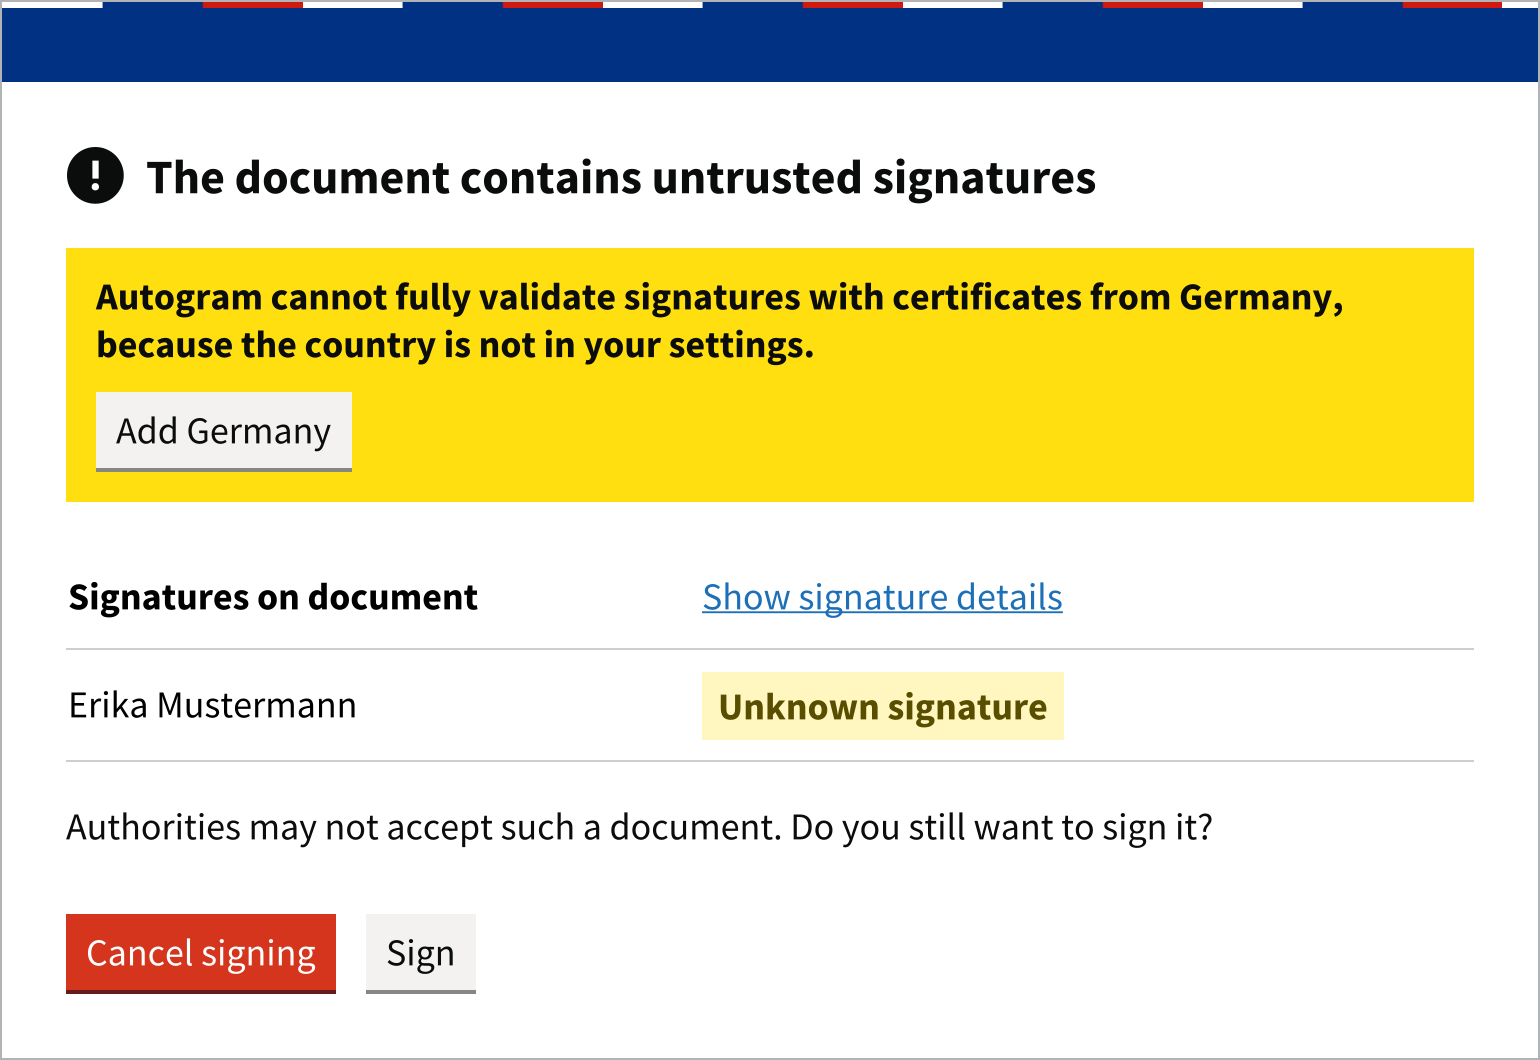
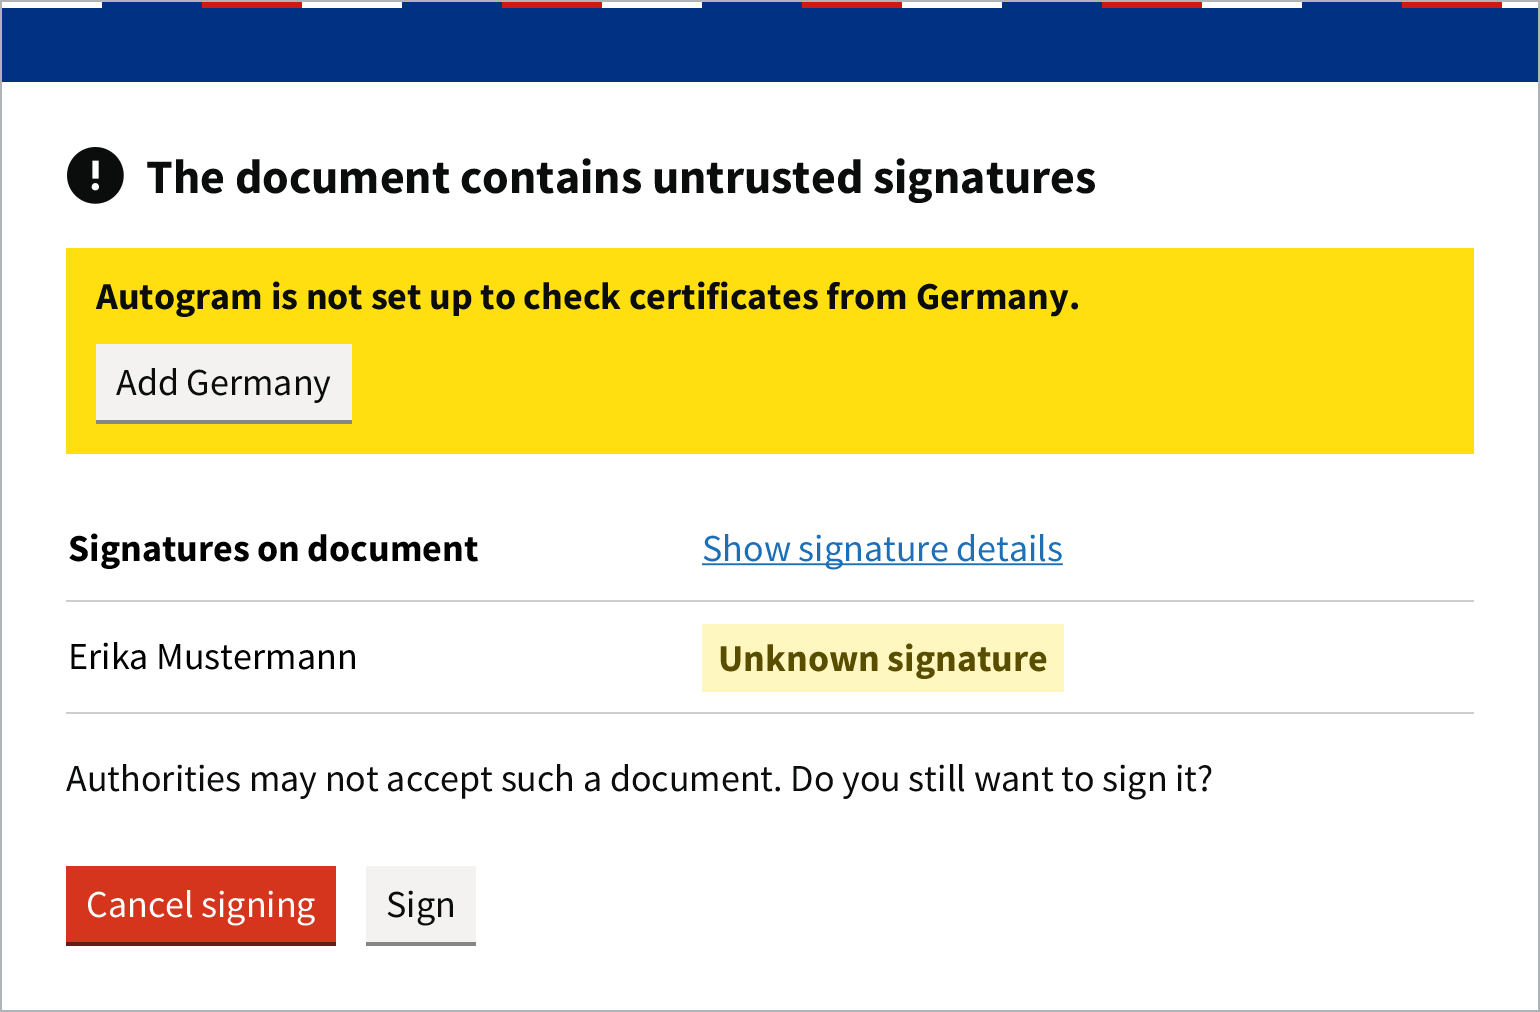
say that Autogram is not set up to check certificates from the countries

diff --git a/src/test/java/digital/slovensko/autogram/ui/gui/TrustedListsWarningTest.java b/src/test/java/digital/slovensko/autogram/ui/gui/TrustedListsWarningTest.java
@@ -97,13 +97,13 @@ class TrustedListsWarningTest {
     void countriesTurnedOffAreNamed() {
         var belgium = Country.withTrustedList("BE").orElseThrow();
         var czechia = Country.withTrustedList("CZ").orElseThrow();
-        assertEquals("Autogram nevie úplne overiť podpisy s certifikátmi z krajiny Belgicko, lebo túto krajinu nemáte pridanú v nastaveniach.",
+        assertEquals("Autogram nemá nastavené overovanie certifikátov z krajiny Belgicko.",
                 GUIValidationUtils.countriesTurnedOffWarning(SK, List.of(belgium)));
-        assertEquals("Autogram nevie úplne overiť podpisy s certifikátmi z krajín Belgicko, Česko, lebo tieto krajiny nemáte pridané v nastaveniach.",
+        assertEquals("Autogram nemá nastavené overovanie certifikátov z krajín Belgicko, Česko.",
                 GUIValidationUtils.countriesTurnedOffWarning(SK, List.of(belgium, czechia)));
-        assertEquals("Autogram cannot fully validate signatures with certificates from Belgium, because the country is not in your settings.",
+        assertEquals("Autogram is not set up to check certificates from Belgium.",
                 GUIValidationUtils.countriesTurnedOffWarning(EN, List.of(belgium)));
-        assertEquals("Autogram cannot fully validate signatures with certificates from Belgium, Czechia, because the countries are not in your settings.",
+        assertEquals("Autogram is not set up to check certificates from Belgium, Czechia.",
                 GUIValidationUtils.countriesTurnedOffWarning(EN, List.of(belgium, czechia)));
     }
 

diff --git a/docs/docs/sk/troubleshooting.md b/docs/docs/sk/troubleshooting.md
@@ -78,7 +78,7 @@ Autogram predvolene podpisuje iba XML formuláre slovenskej verejnej správy. In
 
 ### Podpisy sa nedajú overiť
 
-Ak Autogram hlási chybu pri sťahovaní dôveryhodných zoznamov, nemá prístup na internet alebo je server s dôveryhodnými zoznamami nedostupný. Skontrolujte pripojenie a dokument otvorte znova. Ak hlási, že sa nepodarilo stiahnuť iba niektoré zoznamy, je nedostupný server niektorej krajiny alebo je pripojenie na internet veľmi pomalé. Skúste to neskôr. Ak Autogram hlási, že krajinu nemáte pridanú v nastaveniach, kliknite na tlačidlo v upozornení, napríklad **Pridať krajinu Nemecko**. Viac je na stránke [Overenie podpisov](verification.md#doveryhodne-zoznamy).
+Ak Autogram hlási chybu pri sťahovaní dôveryhodných zoznamov, nemá prístup na internet alebo je server s dôveryhodnými zoznamami nedostupný. Skontrolujte pripojenie a dokument otvorte znova. Ak hlási, že sa nepodarilo stiahnuť iba niektoré zoznamy, je nedostupný server niektorej krajiny alebo je pripojenie na internet veľmi pomalé. Skúste to neskôr. Ak Autogram hlási, že nemá nastavené overovanie certifikátov z niektorej krajiny, kliknite na tlačidlo v upozornení, napríklad **Pridať krajinu Nemecko**. Viac je na stránke [Overenie podpisov](verification.md#doveryhodne-zoznamy).
 
 ## Inštalácia a aktualizácie
 

diff --git a/docs/docs/en/troubleshooting.md b/docs/docs/en/troubleshooting.md
@@ -78,7 +78,7 @@ By default, Autogram signs only Slovak government XML forms. You can sign other 
 
 ### Signatures cannot be validated
 
-If Autogram reports an error while downloading trusted lists, it has no internet access or the server with the trusted lists is unavailable. Check your connection and open the document again. If it reports that only some lists could not be downloaded, the server of a country is unavailable or the internet connection is very slow. Try again later. If Autogram says that a country is not in your settings, click the button in the warning, for example **Add Germany**. See [Verifying signatures](verification.md#trusted-lists).
+If Autogram reports an error while downloading trusted lists, it has no internet access or the server with the trusted lists is unavailable. Check your connection and open the document again. If it reports that only some lists could not be downloaded, the server of a country is unavailable or the internet connection is very slow. Try again later. If Autogram says that it is not set up to check certificates from a country, click the button in the warning, for example **Add Germany**. See [Verifying signatures](verification.md#trusted-lists).
 
 ## Installation and updates
 

diff --git a/docs/docs/en/verification.md b/docs/docs/en/verification.md
@@ -53,7 +53,7 @@ Autogram validates signatures against the European Union trusted lists, which it
 
 If a signature was issued by a provider from a country whose trusted list is turned off, Autogram cannot fully validate it and says so above the signatures. Click the button in the warning, for example **Add Germany** (**Add these countries** for more countries): Autogram adds the country in the settings and validates open documents again.
 
-![Warning that a country is not in the settings, with a button that adds it](/assets/images/screenshots/en/signed-document-country-off.png)
+![Warning that Autogram is not set up to check certificates from a country, with a button that adds it](/assets/images/screenshots/en/signed-document-country-off.png)
 
 If the trusted lists cannot be downloaded, Autogram shows a warning that the signatures cannot be fully validated. Check your internet connection and open the document again.
 
